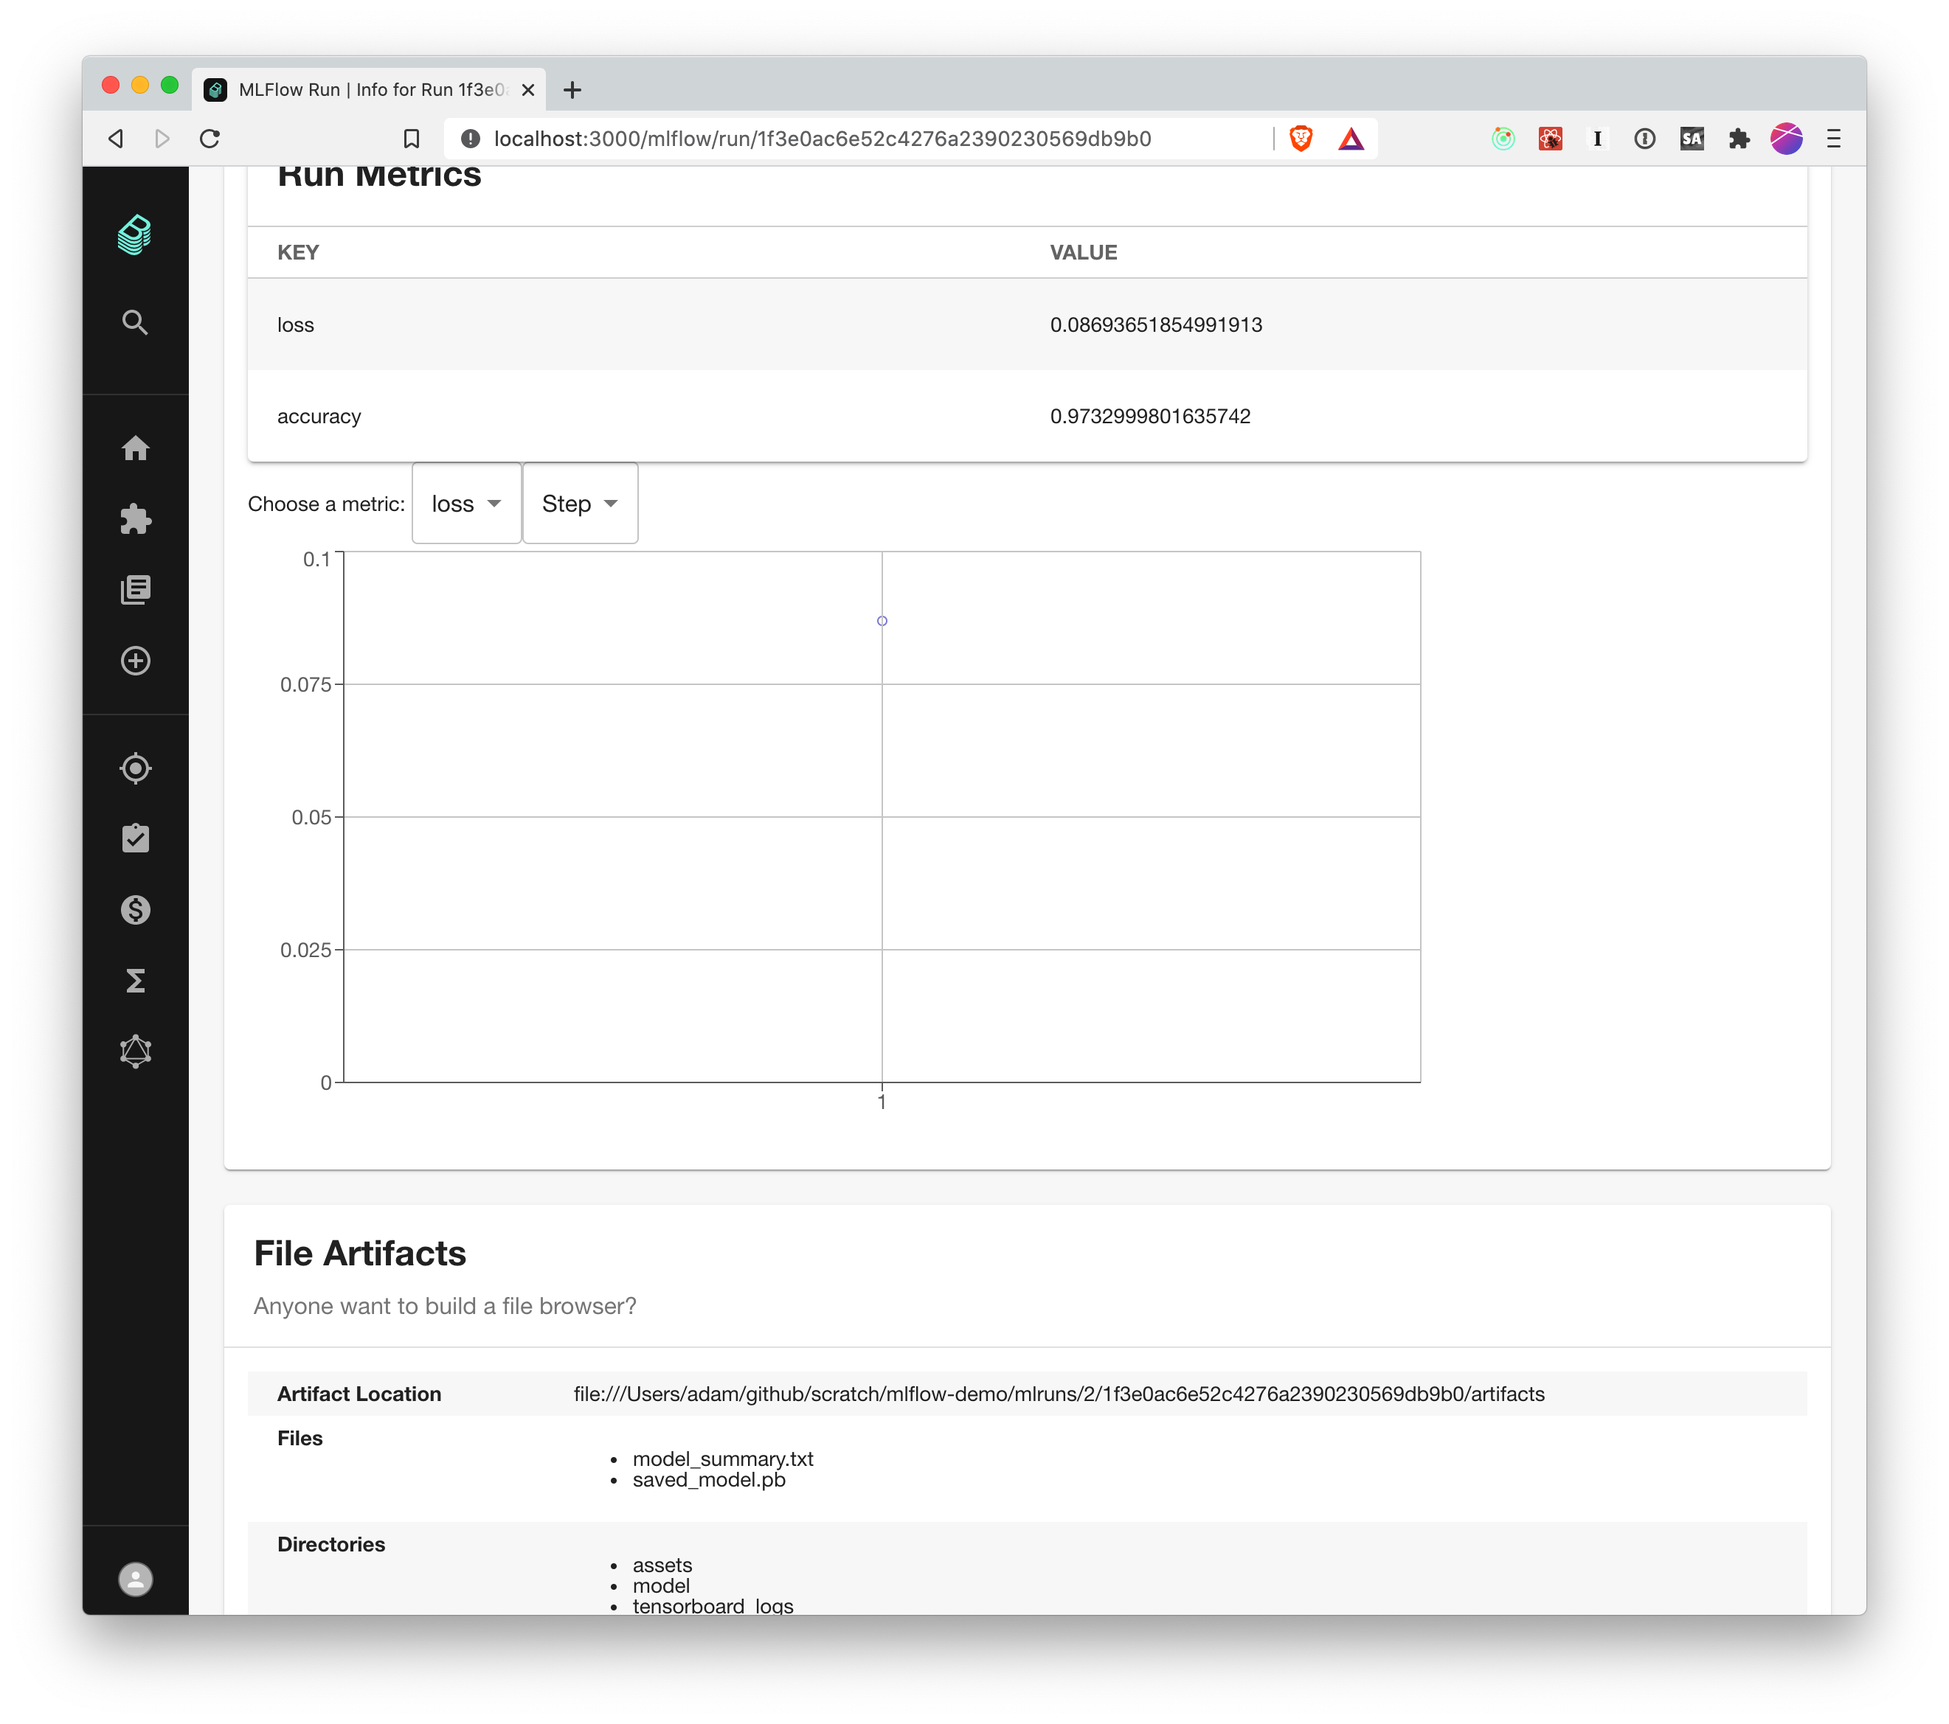
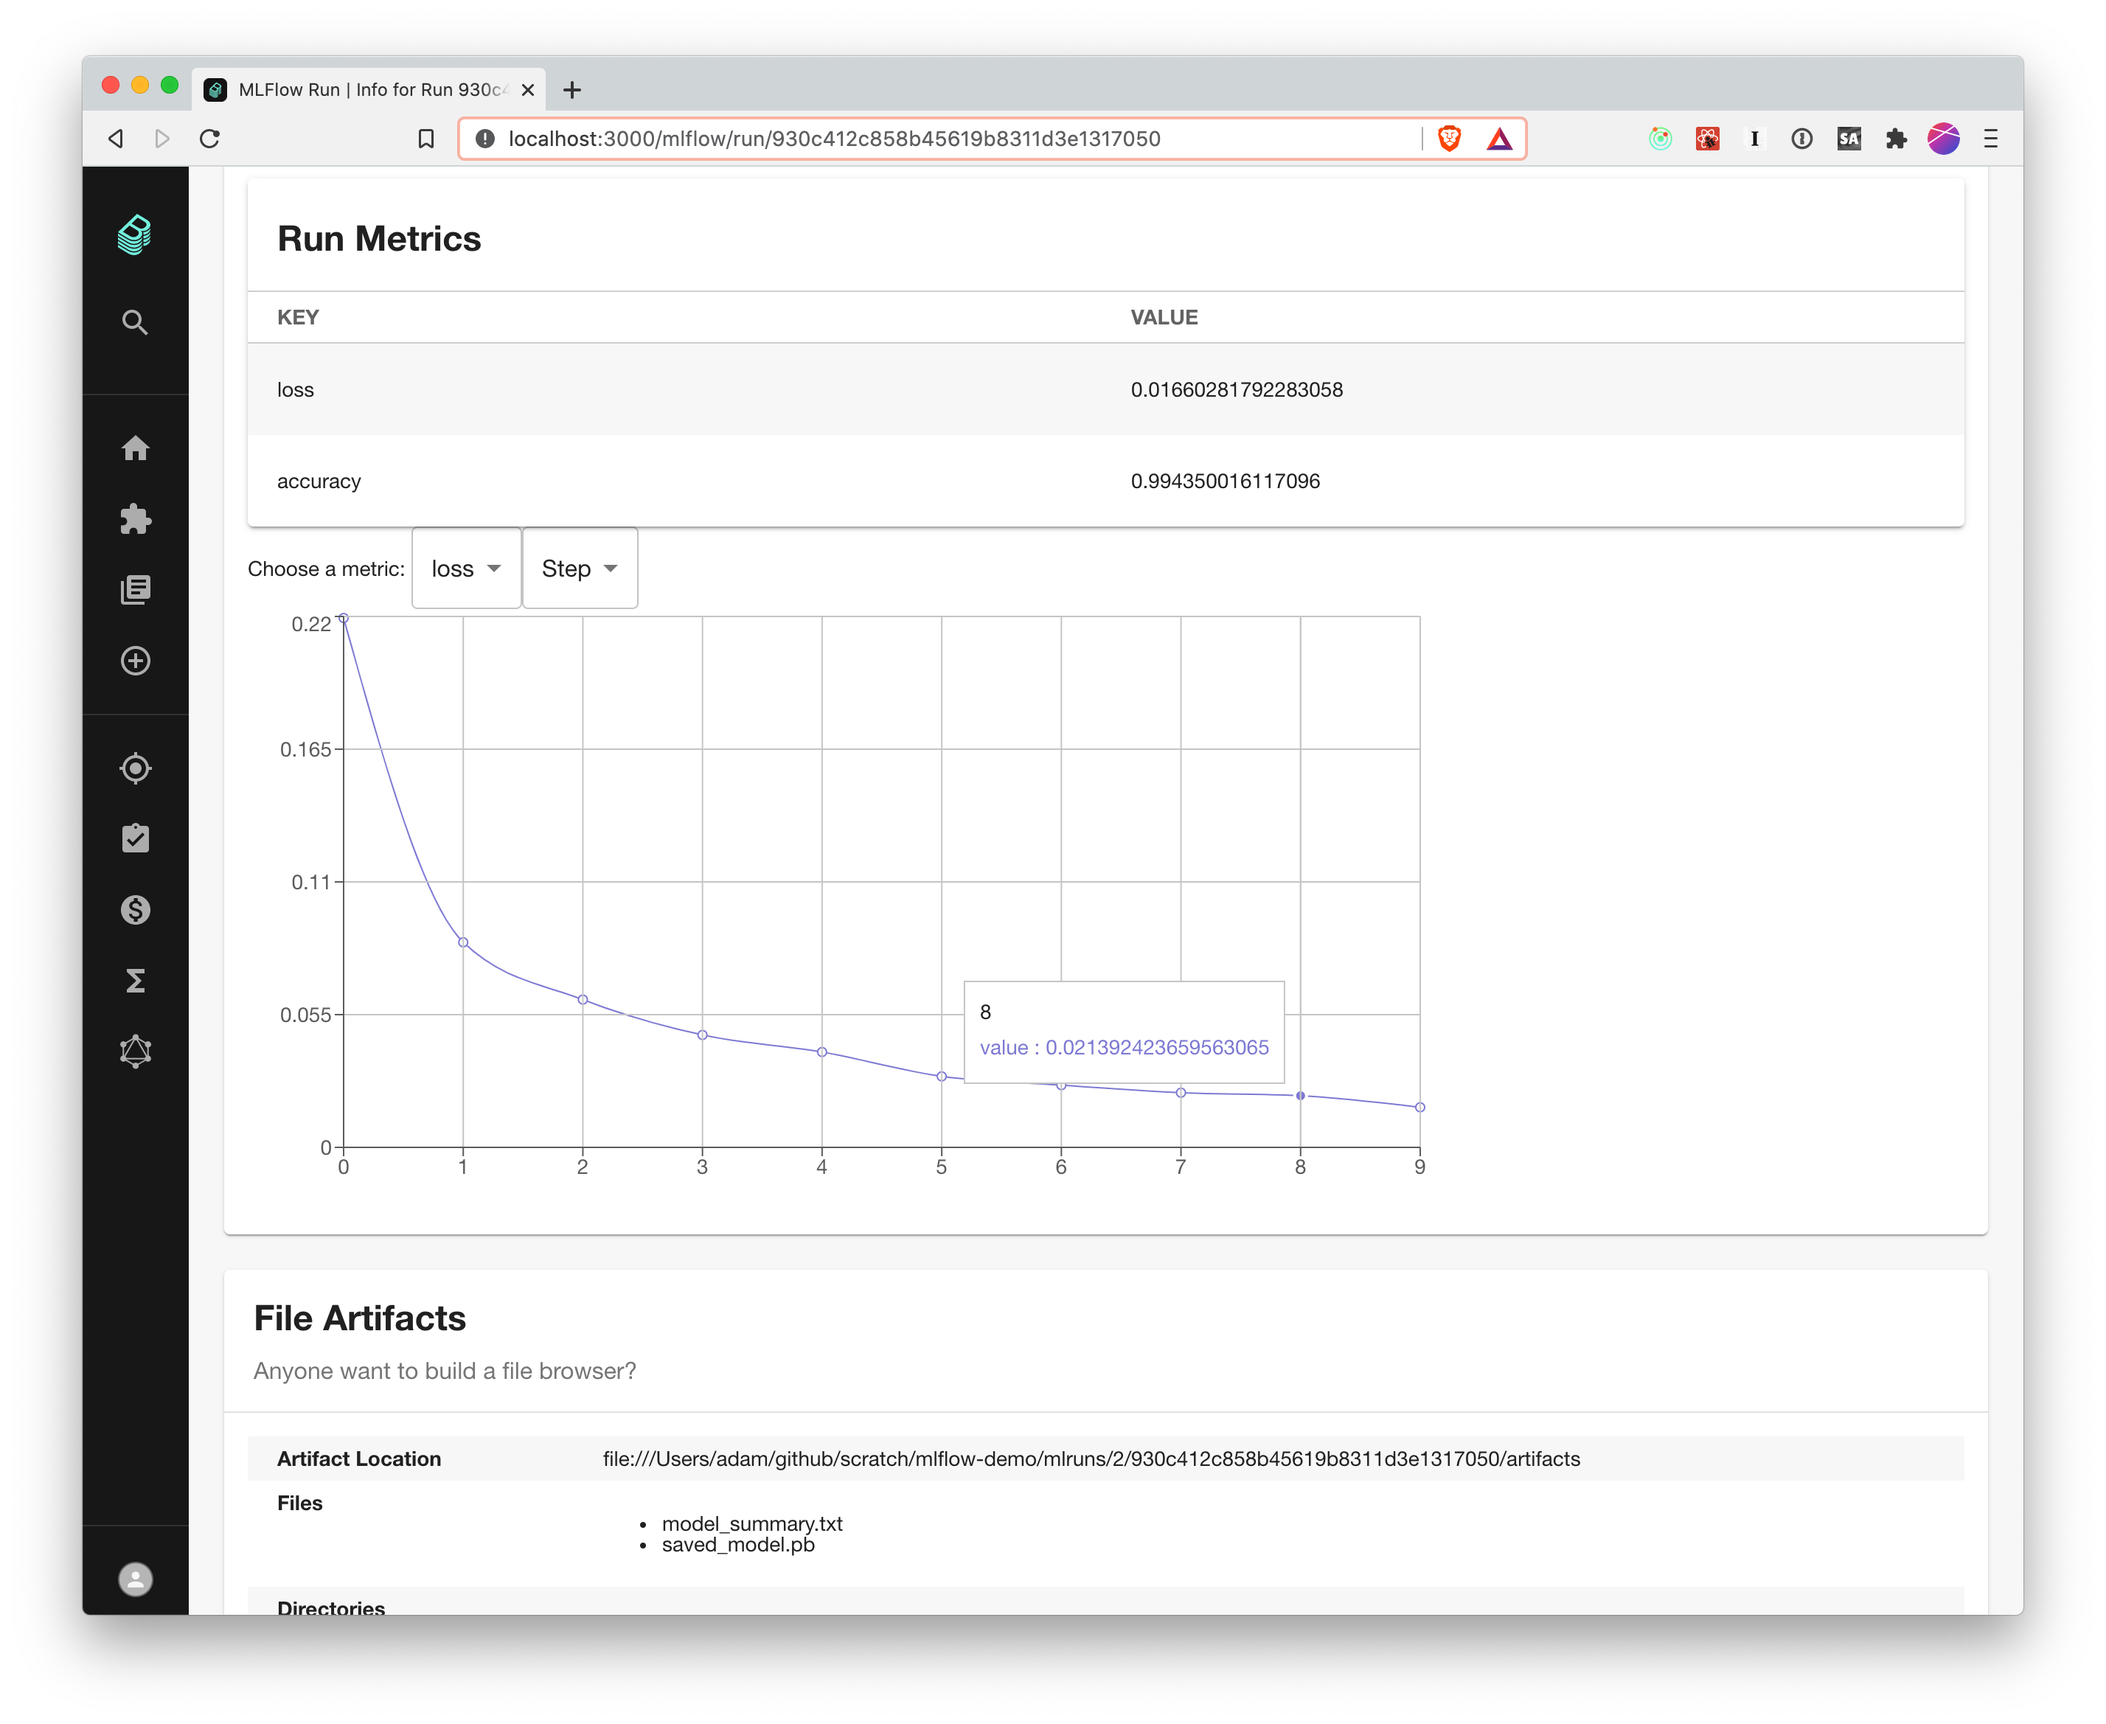
use keras logging for better metrics

diff --git a/src/mnist_trainer.py b/src/mnist_trainer.py
@@ -5,6 +5,7 @@ import tensorflow as tf
 from tensorflow.keras.models import Sequential
 from tensorflow.keras.layers import Dense, Conv2D, Dropout, Flatten, MaxPooling2D
 import mlflow
+import mlflow.keras
 
 from backstage_utils import (
     extract_experiment_id,
@@ -24,14 +25,14 @@ if __name__ == "__main__":
     mlflow.set_experiment(experiment_name=experiment_name)
 
     # Capture tensorflow metrics
-    mlflow.tensorflow.autolog()
+    mlflow.keras.autolog()
 
     with mlflow.start_run():
         print("STARTING RUN")
         mlflow.set_tags(
             {
                 EVALUATION_SET_TAG: "keras-mnist-test-set",
-                NOTE_TAG: "using the example from https://towardsdatascience.com/image-classification-in-10-minutes-with-mnist-dataset-54c35b77a38d",
+                NOTE_TAG: "using keras autolog instead of tensorflow",
             }
         )
 
@@ -70,7 +71,7 @@ if __name__ == "__main__":
         model.fit(x=x_train, y=y_train, epochs=10)
 
         # Model evaluation metrics (loss, accuracy) are
-        # already done via mlflow.tensorflow.autolog()
+        # already done via mlflow.keras.autolog()
 
         print("SAVING AND LOGGING ARTIFACT")
         model.save(f"{BASE_DIR}/outputs")
